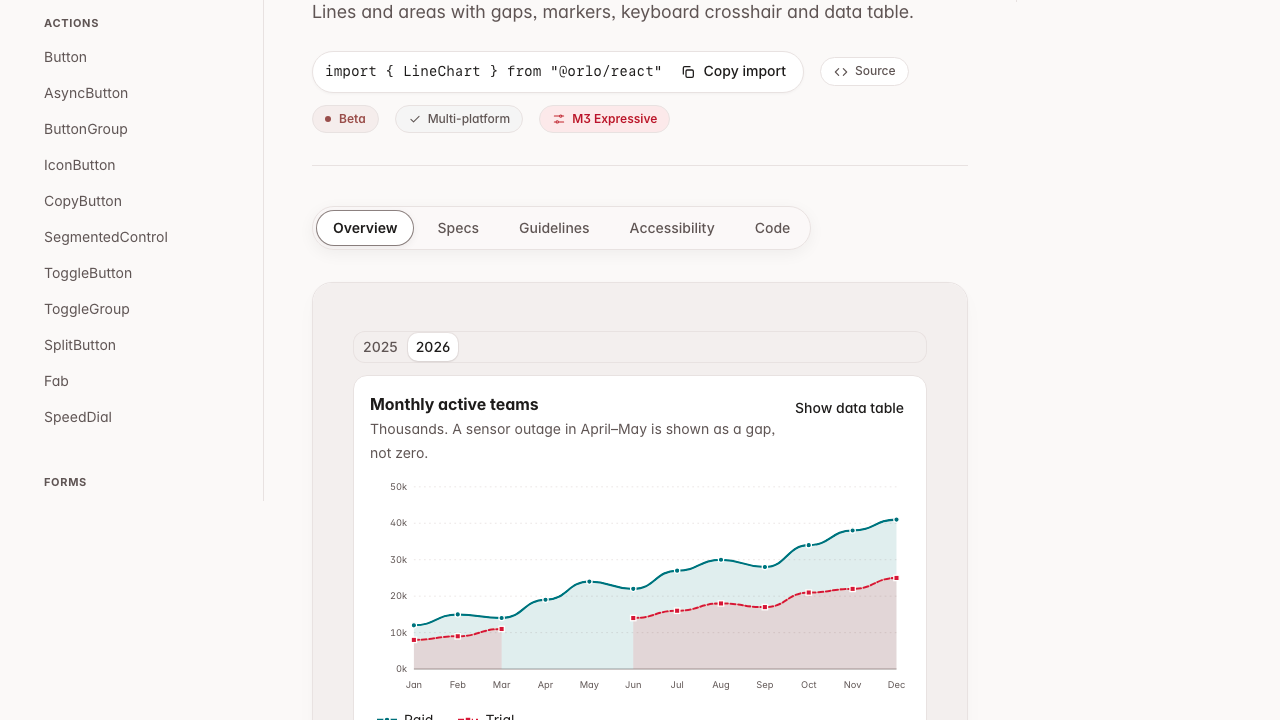
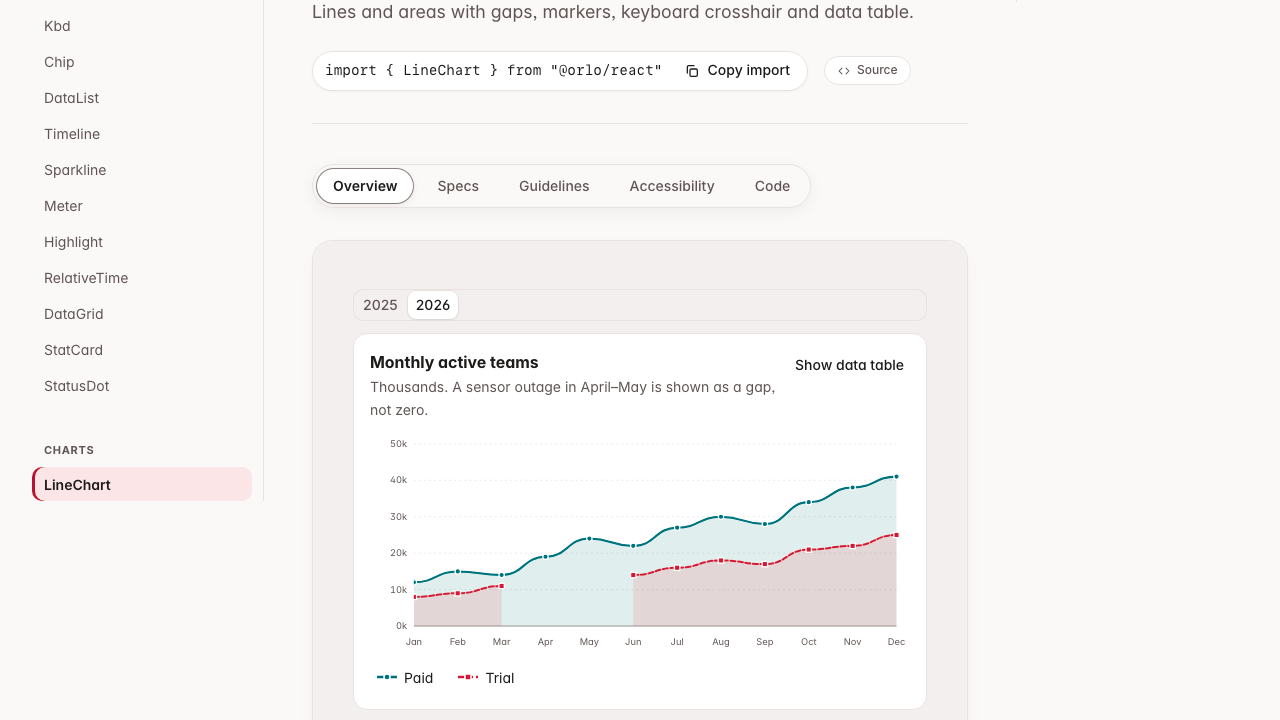
docs: update CHANGELOG and fix Slider thumb accessibility label when hidden

diff --git a/packages/react/src/components/Slider.tsx b/packages/react/src/components/Slider.tsx
@@ -99,7 +99,8 @@ export function Slider({ label, value: v, defaultValue = 50, onValueChange, onVa
           </span>
         ))}
         <motion.div ref={thumbEl} id={id} role="slider" tabIndex={disabled ? -1 : 0} className="orlo-slider__thumb"
-          aria-labelledby={`${id}-l`} aria-valuemin={min} aria-valuemax={max} aria-valuenow={value} aria-valuetext={format(value)}
+          aria-labelledby={hideLabel ? undefined : `${id}-l`} aria-label={hideLabel ? (typeof label === "string" ? label : undefined) : undefined}
+          aria-valuemin={min} aria-valuemax={max} aria-valuenow={value} aria-valuetext={format(value)}
           aria-orientation={orientation} aria-disabled={disabled || undefined}
           style={vertical ? { insetBlockEnd: posCss } : { insetInlineStart: posCss }}
           animate={{ scale: active ? scale(1.18) : 1 }} transition={transition("press")}

diff --git a/packages/react/src/components/RangeSlider.tsx b/packages/react/src/components/RangeSlider.tsx
@@ -135,8 +135,8 @@ export function RangeSlider({
             style={vertical ? { insetBlockEnd: i === 0 ? posA : posB } : { insetInlineStart: i === 0 ? posA : posB }}
             animate={{ scale: active === i ? scale(1.18) : 1 }}
             transition={transition("press")}
-            aria-labelledby={id}
-            aria-label={i === 0 ? "Minimum" : "Maximum"}
+            aria-labelledby={hideLabel ? undefined : id}
+            aria-label={hideLabel ? (typeof label === "string" ? `${label} (${i === 0 ? "Minimum" : "Maximum"})` : (i === 0 ? "Minimum" : "Maximum")) : (i === 0 ? "Minimum" : "Maximum")}
             aria-orientation={orientation}
             aria-valuemin={!allowCrossing && i === 1 ? value[0] + minGap : min}
             aria-valuemax={!allowCrossing && i === 0 ? value[1] - minGap : max}

diff --git a/CHANGELOG.md b/CHANGELOG.md
@@ -2,6 +2,57 @@
 
 ## Unreleased
 
+### Master Implementation (October 2026)
+- **Foundations & Core Fixes:**
+  - `gesture.ts`: Added logarithmic `elasticResistance` (`log1p` model) for natural bounded overdrag physics.
+  - `icon-defs.ts`: Upgraded Settings gear icon with precise 6-cog geometry and circular inner bore.
+  - `Overlays2.tsx`: Pre-clamped `ContextMenu` coordinates to prevent top-left viewport offset.
+  - `Media2.tsx`: Prevented `Carousel` page scroll using `track.current.scrollTo`.
+  - `AI.tsx`: Synchronized `ToolRun` collapse padding and height transitions.
+  - `Charts.tsx`: Synchronized animated clipPath for `LineChart` multi-series paths.
+  - `ProgressiveBlur.tsx`: Eliminated hard visible seam with smooth gradient opacity tapering.
+  - `Slider.tsx` & `RangeSlider.tsx`: Corrected accessibility name computation when `hideLabel` is active (`aria-label` directly on thumb).
+
+- **Documentation Refinements:**
+  - `App.tsx`: Wired `sessionStorage` scroll restoration on sidebar navigation.
+  - `docs.css`: Spaced wordmark from nav, shrunk `.import` copy button, bounded settings panel.
+  - `ComponentDocs.tsx`: Removed promotional badges (`Beta`, `Multi-platform`, `M3 Expressive`) while retaining Source links.
+  - `Home.tsx`: Replaced marketing claims with verified counts (`manifest.length`, `families.length`, WCAG 2.2 AA).
+  - `Start.tsx`: Upgraded `About()` with a positive design philosophy.
+
+- **Component Refinements:**
+  - `TextArea.tsx`: Added `minWidth`, `maxWidth`, `minHeight`, `maxHeight`, and `resize` locks with logical properties.
+  - `TagInput.tsx`: Wrapped chips in `AnimatePresence mode="popLayout"` with smooth container layout shifts.
+  - `PinInput.tsx`: Supported 1–16 digits, `groupSize` separators, responsive sizing, and `clearStaleError()`.
+  - `NumberField.tsx`: Added `quantity` picker variant (morphing "Add" $\leftrightarrow$ `[-] count [+]`) and `stepper` toggle.
+  - `PasswordField.tsx`: Coordinated visual field dissolve reveal.
+  - `RangeSlider.tsx`: Added `orientation="vertical"` and `allowCrossing` policy.
+  - `Actions.tsx` & `extended.css`: Fixed SplitButton corner seams (matching `border-radius: var(--orlo-radius-md)`) and added `size="sm" | "md" | "lg"`.
+  - `Calendar.tsx` & `extended.css`: Added provisional range hover preview and distinct `today` outline/ring. Added `allowInput` text entry mode with locale-aware parsing and popover sync to `DatePicker`.
+  - `Dialog.tsx` & `styles.css`: Added `side="top"` top sheet and `centered` desktop partial-width bottom sheet.
+  - `actions.tsx`: Built live `SegmentedViewDemo` with interactive List, Grid, and Board layouts.
+  - `Charts.tsx` & `index.ts`: Exported `PieChart`, added `variant="pie"` and `innerRadius` to `DonutChart`.
+  - `Data2.tsx`: Fixed `Sparkline` path scaling, margins, trend title, and regex safety. Updated `RelativeTime` to viewer's local timezone.
+  - `extended.css`: Changed `.orlo-reltime` cursor from `help` to `default`.
+  - `SignaturePad.tsx` & `specialty.tsx`: Removed "Type instead" and preserved pure high-DPI drawing/undo/clear. Guarded canvas 2D context in `SignaturePad.tsx` for jsdom/headless resilience.
+  - `Media3.tsx` & `extended2.css`: Added speed toggle to `VideoPlayer`. Added Orlo-owned controls (paging, zoom, rotate, print, viewport scale) to `DocumentViewer`.
+
+- **Generalized Drag-and-Drop Primitives (`@orlo/react`):**
+  - Implemented `DndContext`, `useDraggable`, `useDroppable`, `useSortable`, `SortableContext`, `DragOverlay` (spring physics via `transition("drag")`), and `DropIndicator`.
+  - Collision strategies: `rectIntersection` and `closestCenter`.
+  - Modifiers: `restrictToVerticalAxis`, `restrictToHorizontalAxis`, `snapToGrid`, and `boundedElastic`.
+  - Full keyboard accessibility (Space/Enter pick-up, Arrow keys translation, Escape cancellation).
+  - XY drag tracking in `ReorderableList` and `Kanban` (with column capacity limits and screen-reader announcements).
+
+- **Design Studio Workspace (`@orlo/docs`):**
+  - Introduced full visual workspace at `/design-studio/` replacing Theme Studio.
+  - Interactive component palette across core, forms, feedback, pickers, and workspace components.
+  - Infinite-style pan/zoom canvas (50% to 180%) with Select/Edit mode and live Interact/Test mode.
+  - Live TypeScript property inspector with real-time prop mutations and layout reordering.
+  - Real-time WCAG 2.2 AA contrast ratio calculator with guardrails.
+  - Motion inspector with spring physics tuning (`tension`, `friction`, `mass`, presets).
+  - Portable, idiomatic React + TypeScript code generator importing purely from `@orlo/react` and `@orlo/tokens` with Copy and Download `.tsx`.
+
 ### v3 "quiet precision" redesign (in progress, not released)
 - **Breaking:** the tinted-glass material is removed. `Material` is now `"solid" | "glass"`; the `tint` provider prop and the `tintStrength` glass option are gone.
 - **Breaking:** `Button variant="solid"` is now an ink (foreground) fill. The new `variant="accent"` is the brand-colour fill for a single brand moment per view.
